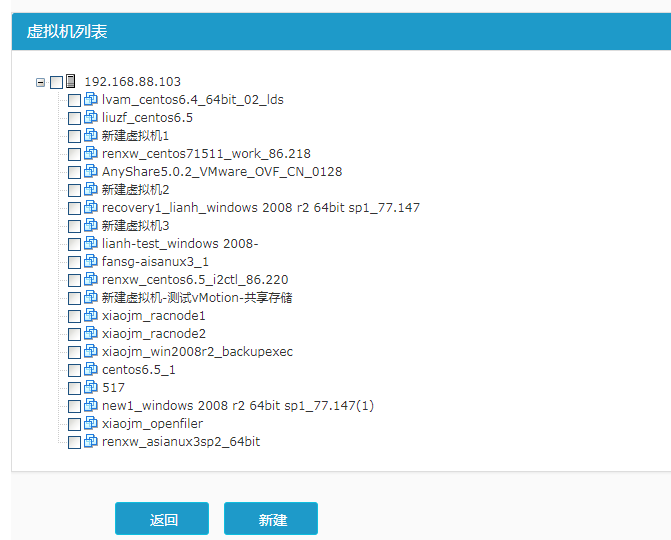
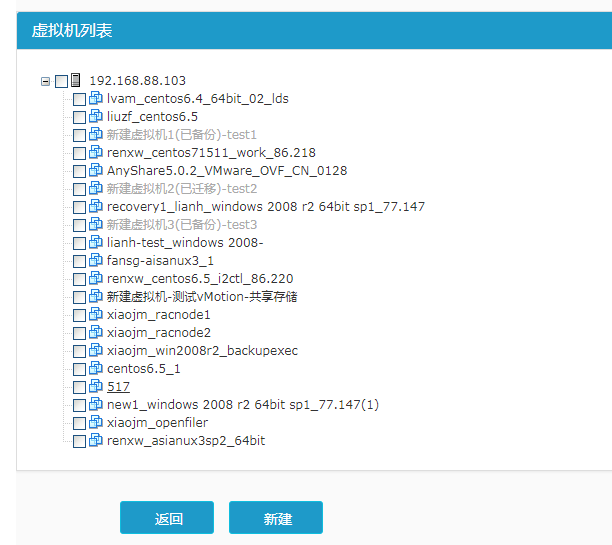
Updates virtual_platform/add_vp.md
Auto commit by GitBook Editor

Changed region(s): [[0.0, 0.0, 1.0, 0.8593], [0.1552, 0.9185, 0.5278, 1.0], [0.031, 0.8593, 1.0, 0.8889]]

diff --git a/virtual_platform/add_vp.md b/virtual_platform/add_vp.md
@@ -26,6 +26,12 @@
 点击“查看虚机列表”，页面显示如下：
 ![说明: 1](/assets/V6.11811051529.png)
 
+鼠标移至已备份或者已迁移虚机的名称上面，后面出现“查看统计信息”的链接：
+![说明: 1](/assets/V6.11811051530.png)
+
+点击“查看统计信息”
+
+
 选择一部分虚机，点击新建按钮，可以新建虚机备份规则或者虚机迁移规则：
 ![说明: 1](/assets/V6.11811051534.png)
 
